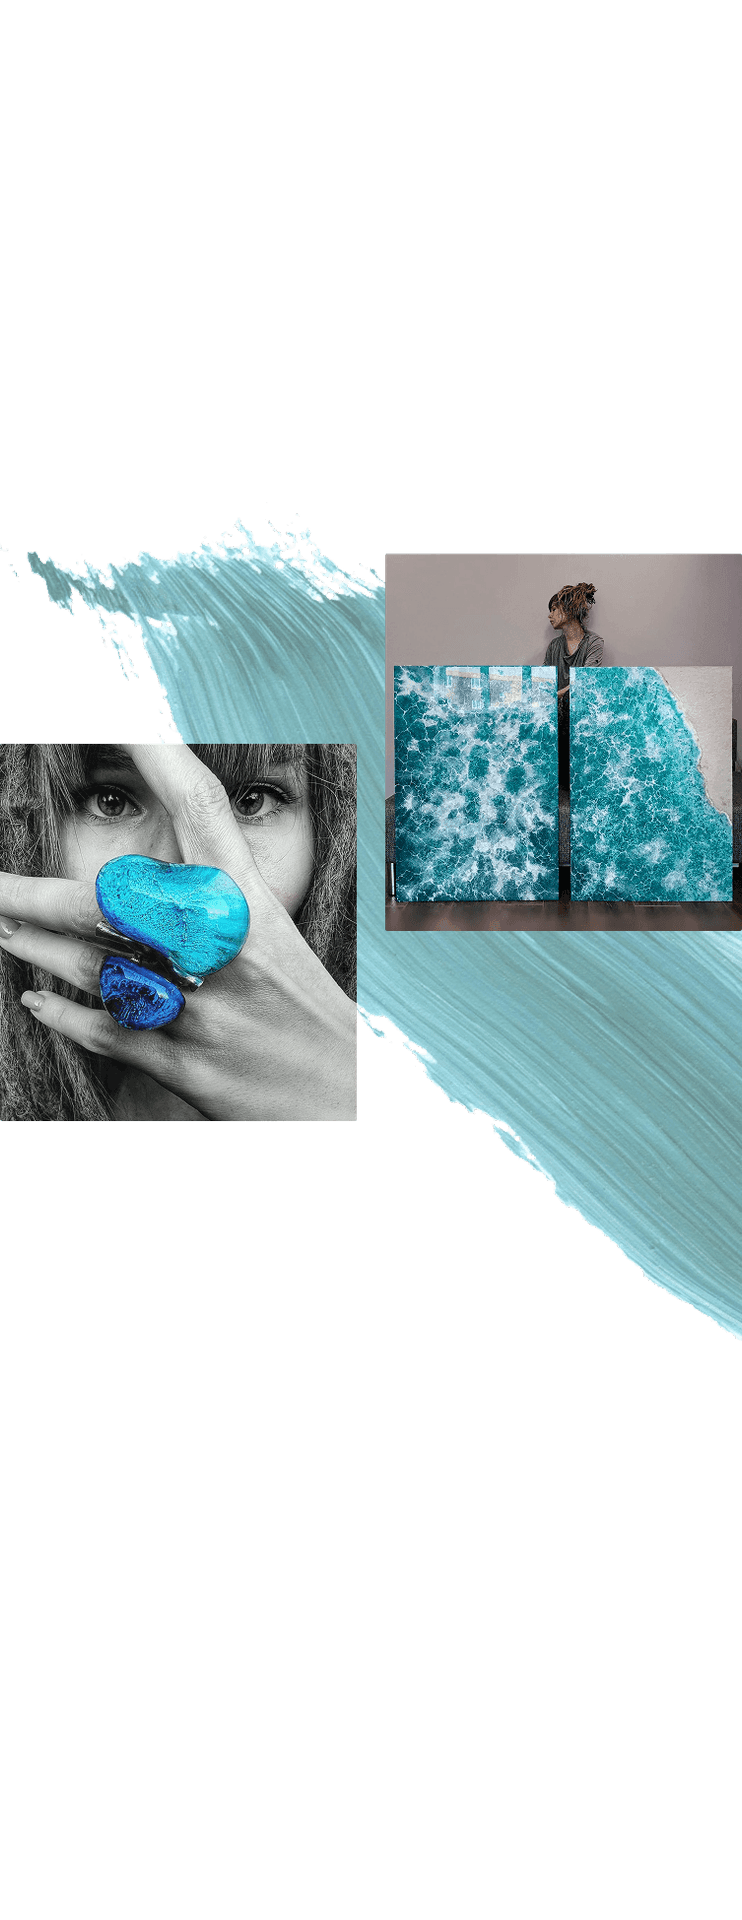
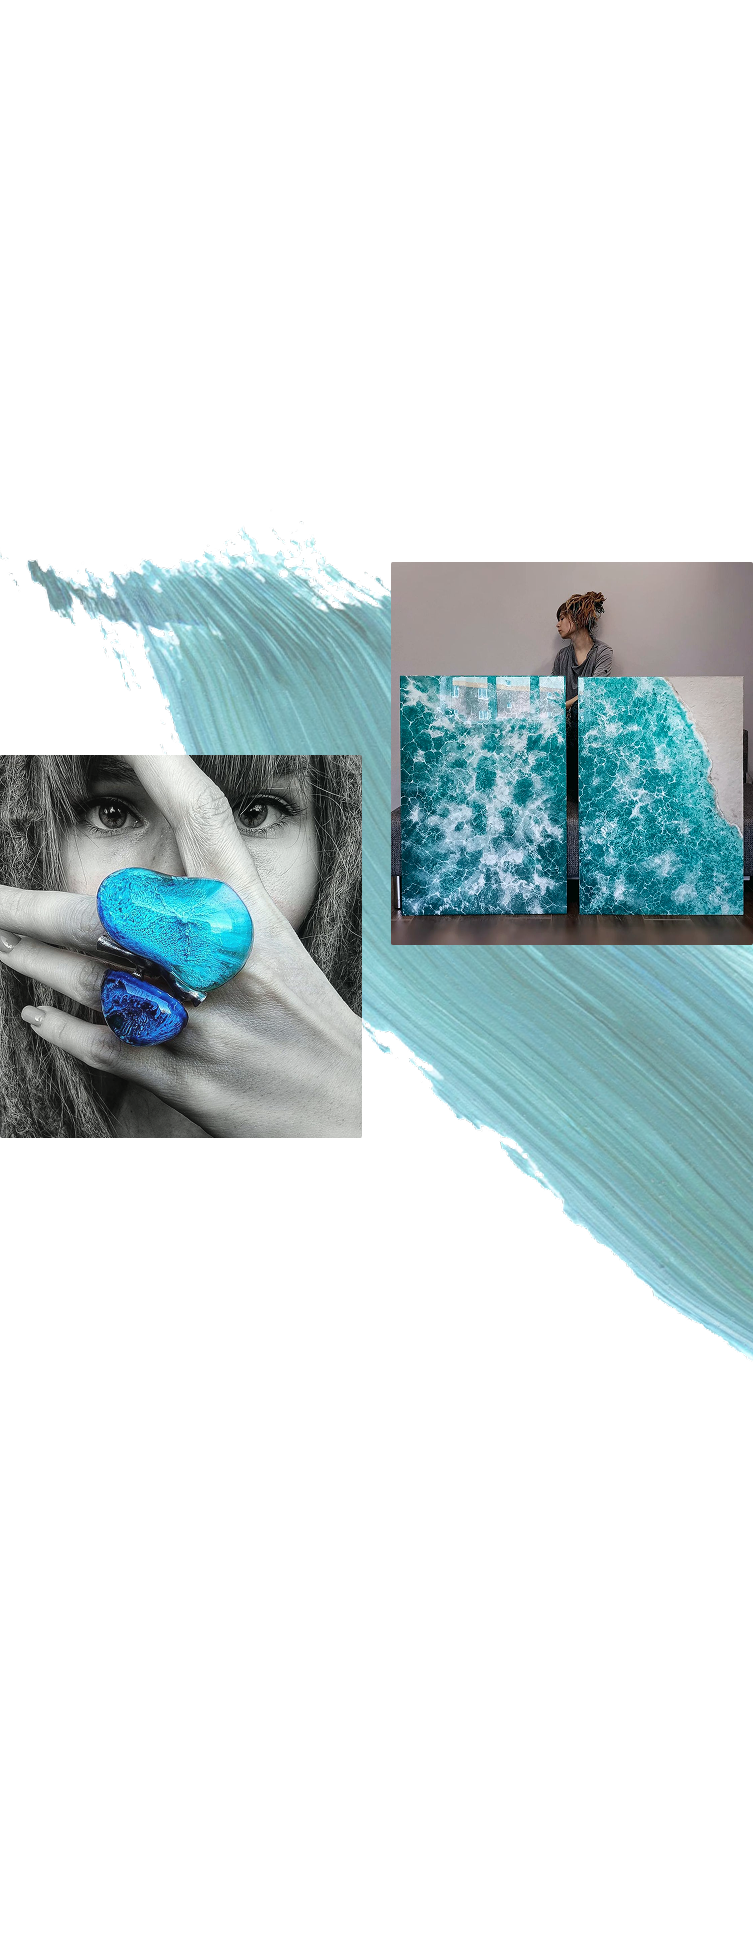
fix(numbers): restore exact original full-res art-composition and remove overlays

Changed region(s): [[0.155, 0.4688, 0.248, 0.5312], [0.8679, 0.4062, 0.8989, 0.4375]]

diff --git a/components/sections/art-numbers.tsx b/components/sections/art-numbers.tsx
@@ -2,21 +2,7 @@ import Image from "next/image";
 
 export function ArtNumbers() {
   return (
-    <section id="numbers" className="pt-4 lg:pt-0 pb-12 lg:pb-0 relative overflow-hidden text-white bg-[#111111] scroll-mt-20">
-      {/* Clean Dark Paper Background */}
-      <div className="absolute inset-0 z-0 pointer-events-none">
-        <Image 
-          src="/paper-clean-dark.png" 
-          alt="Paper texture" 
-          fill 
-          className="object-cover opacity-70 mix-blend-screen"
-        />
-      </div>
-
-      {/* Top & bottom gradient fades */}
-      <div className="absolute top-0 left-0 w-full h-24 lg:h-36 bg-gradient-to-b from-[#111111] via-[#111111]/60 to-transparent z-[15] pointer-events-none" />
-      <div className="absolute bottom-0 left-0 w-full h-24 lg:h-36 bg-gradient-to-t from-[#111111] via-[#111111]/60 to-transparent z-[15] pointer-events-none" />
-
+    <section id="numbers" className="pt-0 pb-0 lg:pb-0 relative overflow-hidden text-white scroll-mt-20">
       <div className="w-full max-w-[1200px] mx-auto px-6 sm:px-12 lg:px-0 min-h-[auto] lg:min-h-[740px] relative z-20">
         
         {/* ================= DESKTOP LAYOUT (lg+) ================= */}
